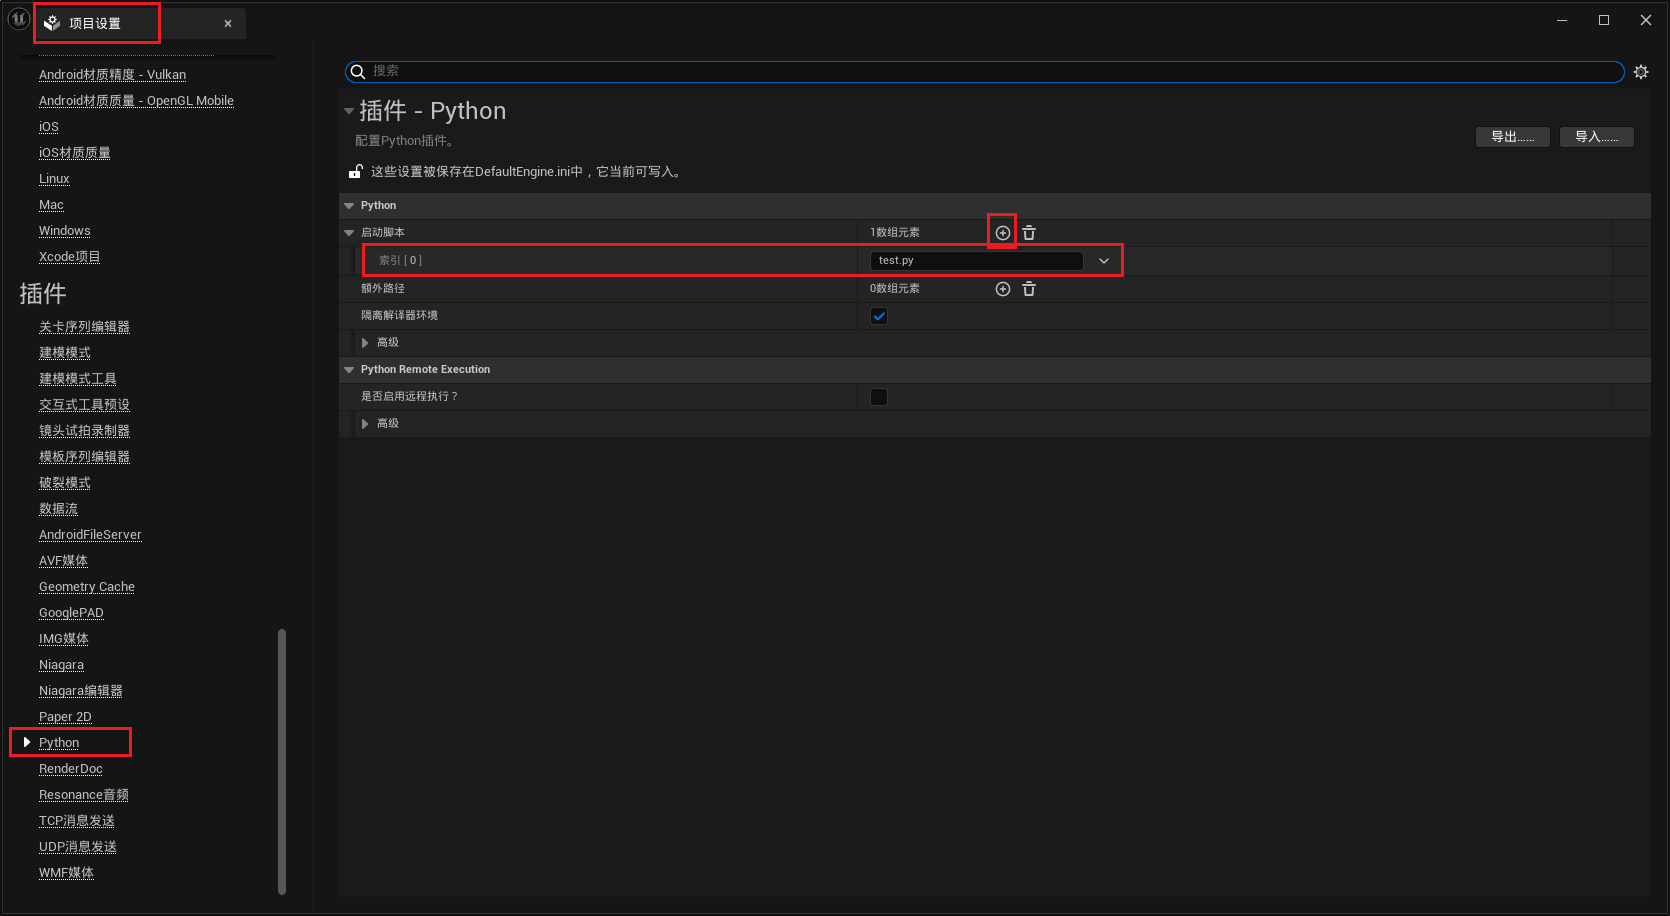
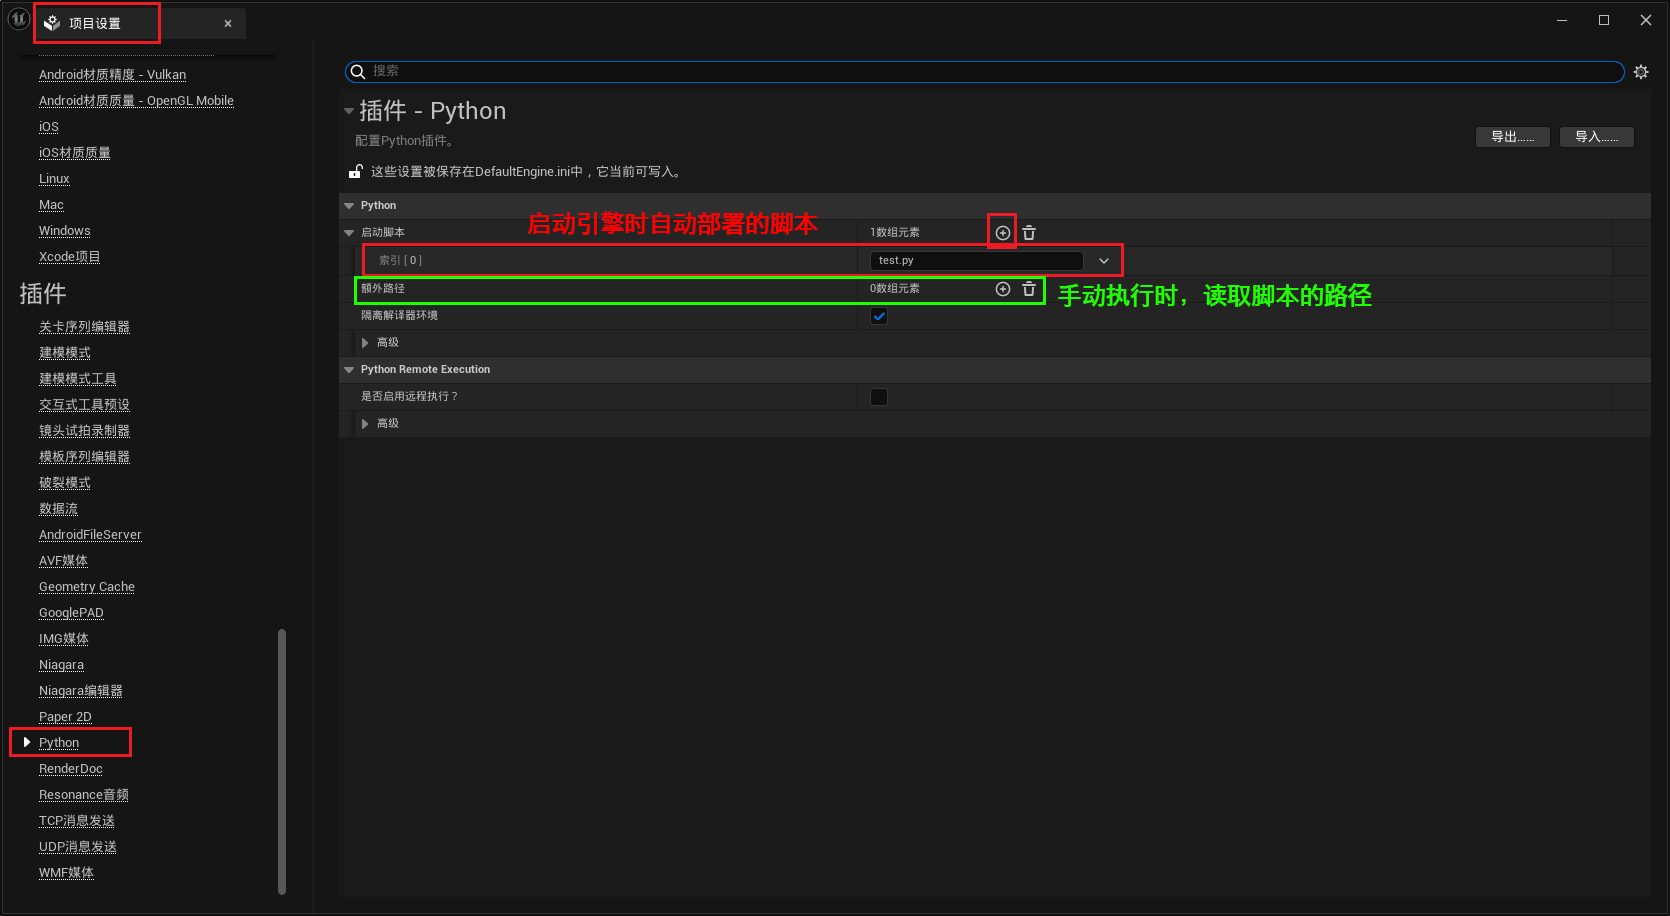
UE Python中调用函数

Changed region(s): [[0.218, 0.214, 0.8407, 0.3362]]

diff --git a/Python/UE_Python/UE_Python01.md b/Python/UE_Python/UE_Python01.md
@@ -1,0 +1,66 @@
+___________________________________________________________________________________________
+###### [GoMenu](../UE_PythonMenu.md)
+___________________________________________________________________________________________
+# UE Python中调用函数
+
+
+___________________________________________________________________________________________
+
+
+## 目录
+
+
+
+
+___________________________________________________________________________________________
+
+### UE中调用Python函数
+
+> 比如：
+>
+> - 创建一个文件，添加两个测试函数
+>
+>   ![image-20241126163114505](./Image/UE_Python01/image-20241126163114505.png)
+>
+> - 需要在引擎中切换成Python模块
+>
+>   ![image-20241126163250514](./Image/UE_Python01/image-20241126163250514.png)
+>
+> - 需要先导入模块（Python文件）输入代码：
+>
+>   ![image-20241126163553992](./Image/UE_Python01/image-20241126163553992.png)
+>
+>   这一步的作用是引入模块 `MyLibrary` 并取别名为 `ml`
+>
+>   ```python
+>   import MyLibrary as ml
+>   ```
+>
+> - 然后可以使用ml调用函数，比如调用 `MyFunction2`，输入指令：
+>
+>   ```python
+>   ml.MyFunction2(200,50)
+>   ```
+>
+>   输出结果：
+>
+>   ![image-20241126164055099](./Image/UE_Python01/image-20241126164055099.png)
+>
+> - 在输入框内按 `上箭头 ↑` 可以看到之前输入的指令
+>
+>   ![image-20241126164233407](./Image/UE_Python01/image-20241126164233407.png)
+>
+>   ![image-20241126164254211](./Image/UE_Python01/image-20241126164254211.png)
+
+### 虚幻官方的Python预置功能
+
+> 设置了Python后会出现这个文件，这里有一些功能可以调用
+>
+> ![image-20241126164824969](./Image/UE_Python01/image-20241126164824969.png)
+> 这里是API文档：[Unreal Python API Documentation — Unreal Python 5.4 (Experimental) documentation](https://dev.epicgames.com/documentation/en-us/unreal-engine/python-api/?application_version=5.4)
+
+------
+
+参考链接：
+
+[ Python in UE4 哔哩哔哩_bilibili ](https://www.bilibili.com/video/BV1PE411d7z8/?spm_id_from=333.880.my_history.page.click&vd_source=9e1e64122d802b4f7ab37bd325a89e6c)

diff --git a/Python/UE_Python_PythonEditorScriptPlugin - 副本.md b/Python/UE_Python_PythonEditorScriptPlugin - 副本.md
@@ -32,11 +32,17 @@ ________________________________________________________________________________
 
 [使用Python脚本化运行虚幻编辑器 | 虚幻引擎 5.5 文档 | Epic Developer Community | Epic Developer Community](https://dev.epicgames.com/documentation/zh-cn/unreal-engine/scripting-the-unreal-editor-using-python)
 
+参考链接：[Python in UE4 哔哩哔哩_bilibili](https://www.bilibili.com/video/BV1PE411d7z8/?spm_id_from=333.880.my_history.page.click&vd_source=9e1e64122d802b4f7ab37bd325a89e6c)
+
 [在资源浏览器中选中资源_哔哩哔哩_bilibili](https://www.bilibili.com/video/BV1PE411d7z8/?p=10&spm_id_from=333.880.my_history.page.click&vd_source=9e1e64122d802b4f7ab37bd325a89e6c)
 
 ### `PythonEditorScriptPlugin` 应该是默认开启的，若未开启，需要开启
 
 >![image-20241121112354081](./Image/UE_Python_PythonEditorScriptPlugin/image-20241121112354081.png)
+>
+>UE4的话有三个都需要勾上
+>
+>![image-20241126155920776](./Image/UE_Python_PythonEditorScriptPlugin/image-20241126155920776.png)
 
 ### 运行 `Python` 脚本
 

diff --git a/Python/UE_PythonMenu.md b/Python/UE_PythonMenu.md
@@ -1,0 +1,18 @@
+___________________________________________________________________________________________
+###### [GoLibraryMainMenu](../_LibraryMainMenu_.md)
+___________________________________________________________________________________________
+# UE  Python的使用方法
+
+
+___________________________________________________________________________________________
+
+
+## 目录
+
+### [UE Python中调用函数](./UE_Python/UE_Python01.md)
+
+------
+
+参考链接：
+
+[ Python in UE4 哔哩哔哩_bilibili ](https://www.bilibili.com/video/BV1PE411d7z8/?spm_id_from=333.880.my_history.page.click&vd_source=9e1e64122d802b4f7ab37bd325a89e6c)

diff --git a/_LibraryMainMenu_.md b/_LibraryMainMenu_.md
@@ -49,7 +49,8 @@ ________________________________________________________________________________
 
 ## Python
 
-- #### [UE  Python插件 `PythonEditorScriptPlugin` 的使用方法](./Python/UE_Python_PythonEditorScriptPlugin.md)
+- #### [UE  Python插件 `PythonEditorScriptPlugin` 的配置和启用](./Python/UE_Python_PythonEditorScriptPlugin.md)
+- [UE  Python使用 目录](./Python/UE_PythonMenu.md)
 - #### [Python基础](./Python/PythonBasicsMenu.md)
 
 ## C++
